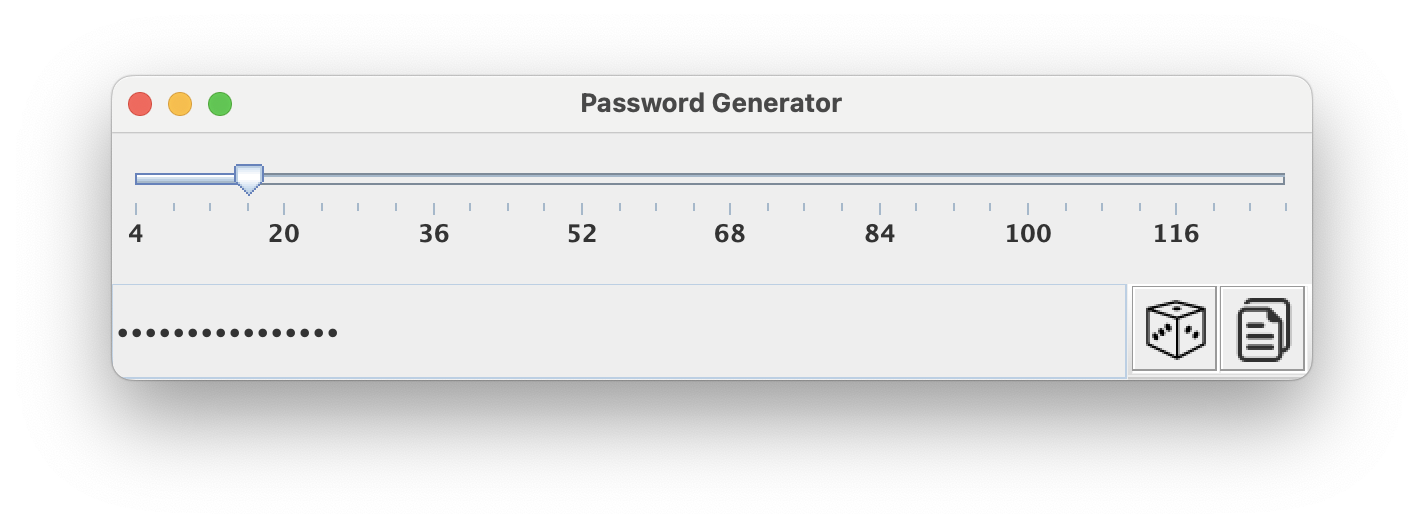
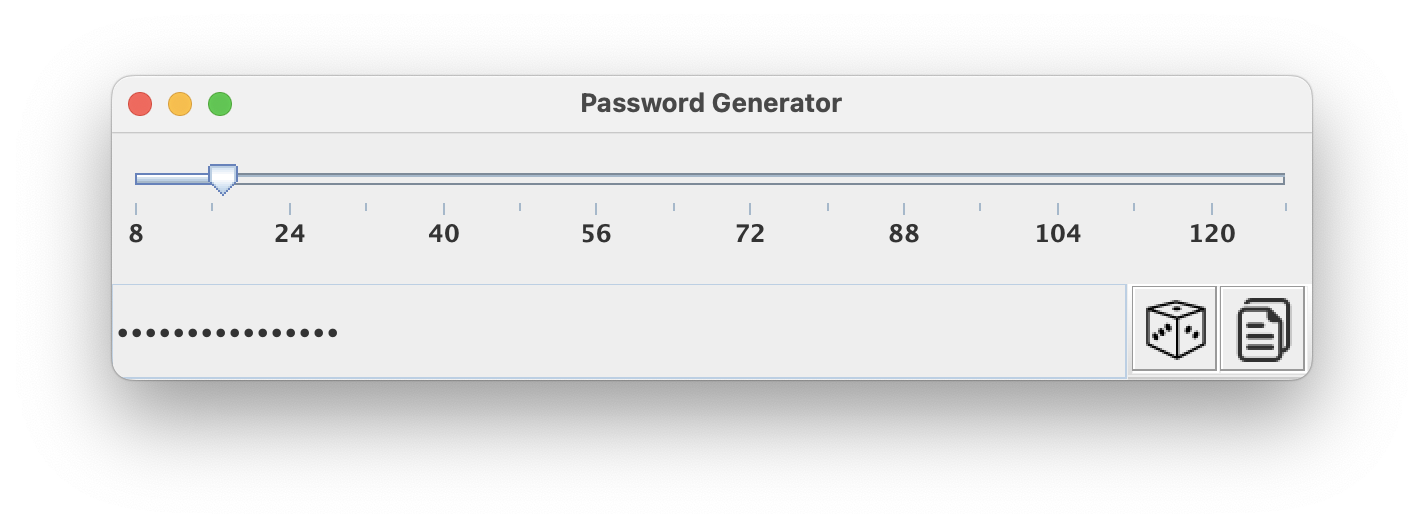
fix(security): use java.security.SecureRandom instead of java.util.Random for cryptographic security

diff --git a/src/main/java/org/example/PasswordGeneratorImpl.java b/src/main/java/org/example/PasswordGeneratorImpl.java
@@ -3,7 +3,7 @@ package org.example;
 import java.util.Arrays;
 import java.util.Collections;
 import java.util.List;
-import java.util.Random;
+import java.security.SecureRandom;
 
 public class PasswordGeneratorImpl implements PasswordGenerator {
     private static final String UPPERCASE_CHARACTERS = "ABCDEFGHIJKLMNOPQRSTUVWXYZ";
@@ -14,7 +14,7 @@ public class PasswordGeneratorImpl implements PasswordGenerator {
             .concat(LOWERCASE_CHARACTERS)
             .concat(DIGIT_CHARACTERS)
             .concat(SPECIAL_CHARACTERS);
-    private static final Random RANDOM_OBJECT = new Random();
+    private static final SecureRandom RANDOM_OBJECT = new SecureRandom();
 
     /**
      * Generate random password

diff --git a/src/main/java/org/example/MainFrameImpl.java b/src/main/java/org/example/MainFrameImpl.java
@@ -32,10 +32,10 @@ public class MainFrameImpl implements MainFrame {
         toolBar.add(btnGeneratePassword);
         toolBar.add(btnCopyPassword);
 
-        slider = new JSlider(SwingConstants.HORIZONTAL, 4, 128, 16);
+        slider = new JSlider(SwingConstants.HORIZONTAL, 8, 128, 16);
         slider.setPreferredSize(new Dimension(600, slider.getPreferredSize().height + 60));
         slider.setMajorTickSpacing(16);
-        slider.setMinorTickSpacing(4);
+        slider.setMinorTickSpacing(8);
         slider.setPaintTicks(true);
         slider.setPaintLabels(true);
         slider.setToolTipText(String.format("%s %d", "Password Length:", slider.getValue()));
